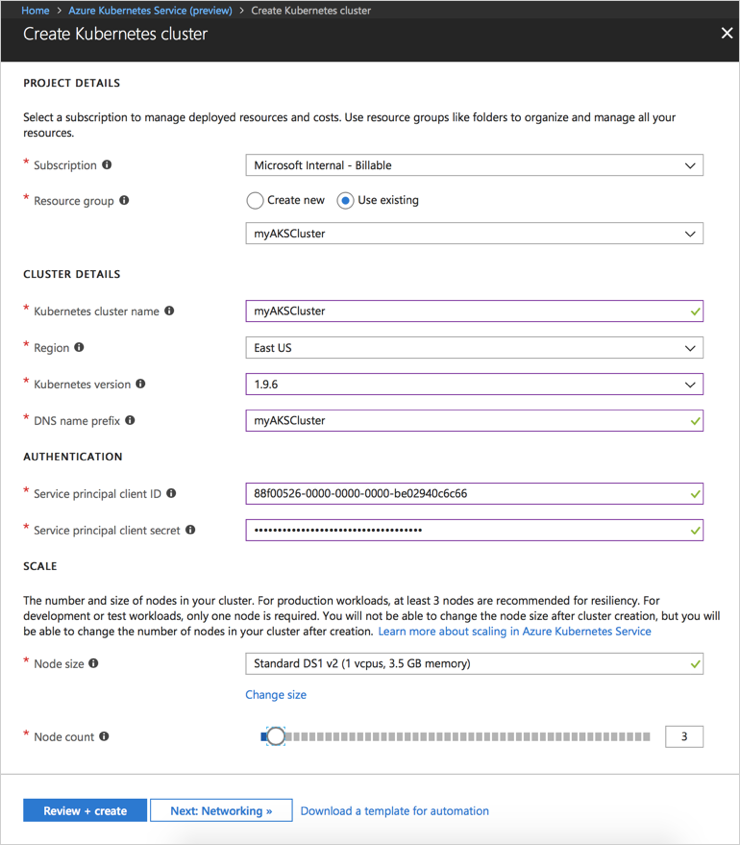
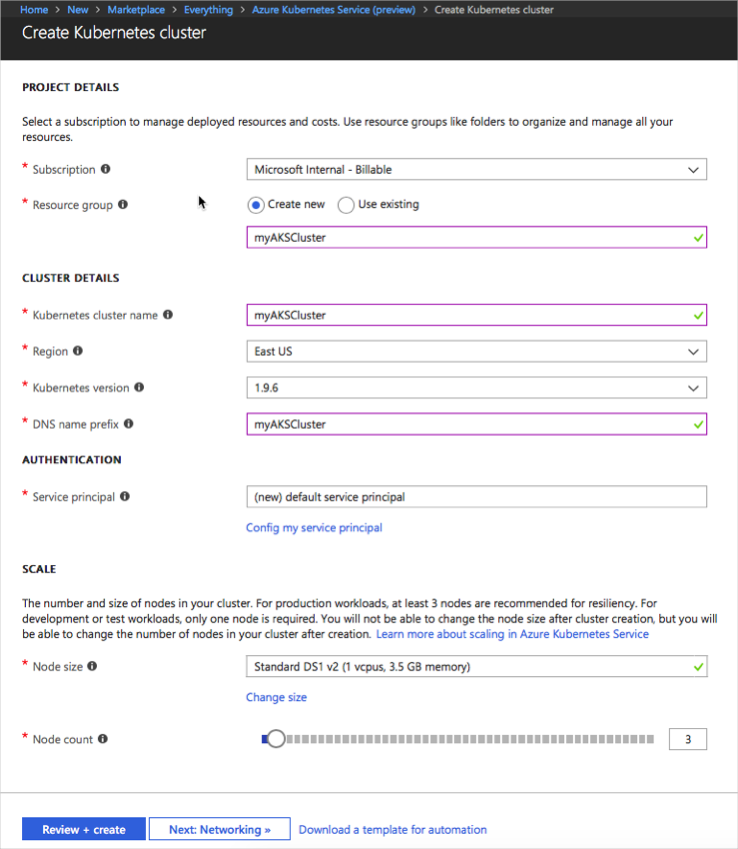
updated image and remove SPN steps

diff --git a/articles/aks/kubernetes-walkthrough-portal.md b/articles/aks/kubernetes-walkthrough-portal.md
@@ -24,27 +24,7 @@ This quickstart assumes a basic understanding of Kubernetes concepts. For detail
 
 Sign in to the Azure portal at http://portal.azure.com.
 
-## Create service principal
 
-Before creating the AKS cluster in the Azure portal, you need to create a service principal. Azure uses this service principal to manage the infrastructure associated with the AKS cluster.
-
-Select **Azure Active Directory** > **App registrations** > **New application registration**.
-
-Enter a name for the application, which can be any value. Select **Web app / API** for the application type. Enter a value for the **Sign-on URL**, which can be any value in a valid URL format, but does not need to be a real endpoint.
-
-Select **Create** when finished.
-
-![Create service principal one](media/container-service-walkthrough-portal/create-sp-one.png)
-
-Select the newly created application registration, and take note of the Application ID. This value is needed when creating the AKS cluster.
-
-![Create service principal two](media/container-service-walkthrough-portal/create-sp-two.png)
-
-Next, you must create a password for the service principal. Select **Settings** > **Keys**, and enter any value for the key description. Select a duration, which is the time for which the service principal is valid.
-
-Click **Save**, and take note of the password value. The password is needed when creating an AKS cluster.
-
-![Create service principal three](media/container-service-walkthrough-portal/create-sp-three.png)
 
 ## Create AKS cluster
 
@@ -54,7 +34,7 @@ Complete the following steps under each heading of the create AKS cluster form.
 
 - **PROJECT DETAILS**:  select an Azure subscription and a new or existing Azure resource group.
 - **CLUSTER DETAILS**: enter a name, region, version, and DNS name prefix for the AKS cluster.
-- **AUTHENTICATION**: enter the service principal ID and password from the previous step of this document.
+- **AUTHENTICATION**: create a new service principal or use an existing one. When using an existing SPN, you need to provide the SPN client ID and secret.
 - **SCALE**: select a VM size for the AKS nodes. The VM size **cannot** be changed once an AKS cluster has been deployed. Also, select the number of nodes to deploy into the cluster. Node count **can** be adjusted after the cluster has been deployed.
 
 Select **Next: Networking** when complete.
